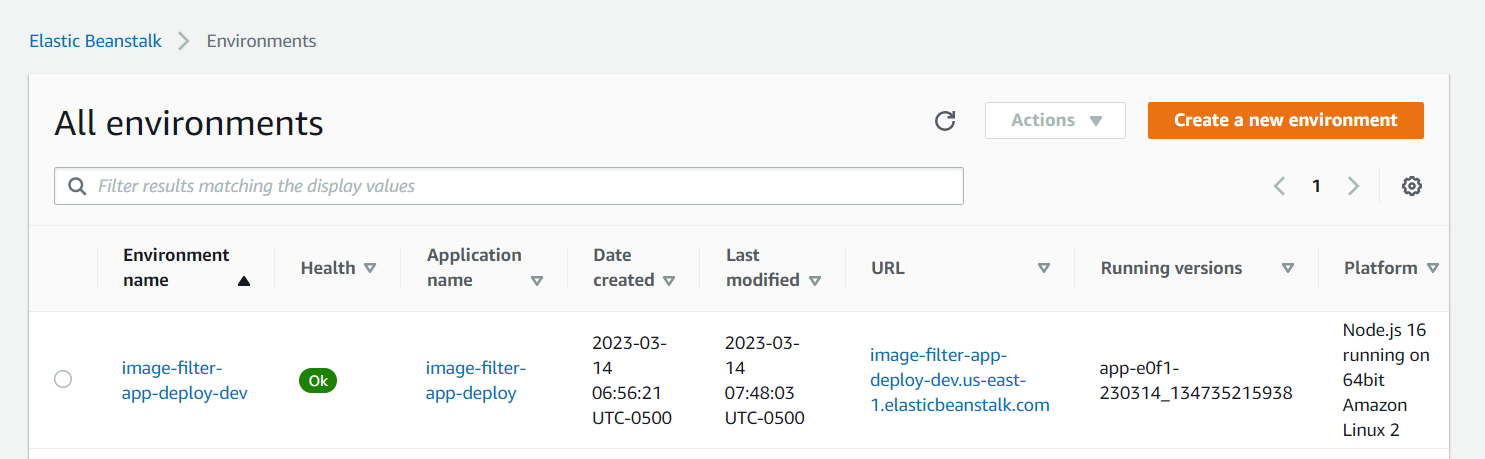
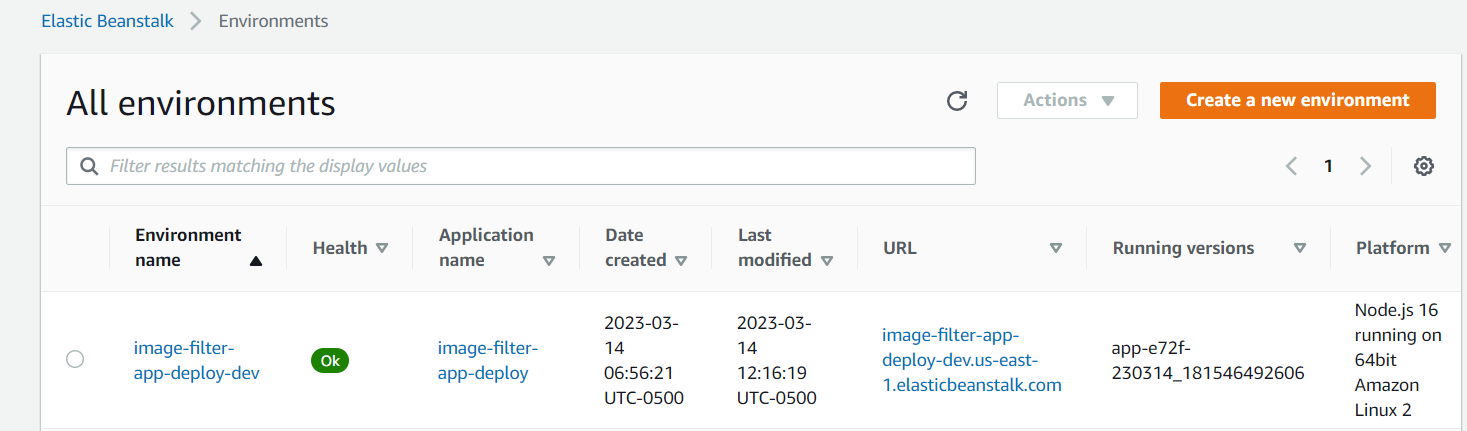
typescript update and redeploy

diff --git a/src/server.ts b/src/server.ts
@@ -1,6 +1,7 @@
 import express from 'express';
 import bodyParser from 'body-parser';
 import {filterImageFromURL, deleteLocalFiles} from './util/util';
+import {Request, Response} from 'express'
 
 (async () => {
 
@@ -29,8 +30,8 @@ import {filterImageFromURL, deleteLocalFiles} from './util/util';
 
   /**************************************************************************** */
 
-  app.get('/filteredimage',async (req , res) => {
-    const image_url : any = req.query.image_url;
+  app.get('/filteredimage',async (req: Request , res: Response) => {
+    const image_url : string = req.query.image_url;
     try {
       if (!image_url){
         res.status(400).send('Image url is Needed');
